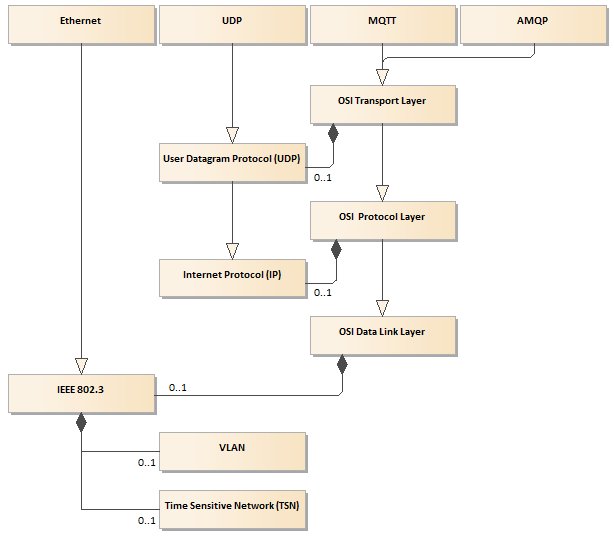
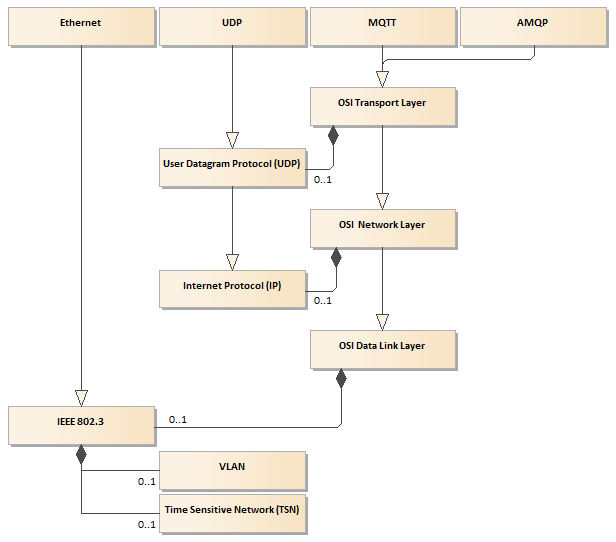
Review PubSub Main Technology Features #366
- applied review received from GM

Changed region(s): [[0.0, 0.0, 1.0, 0.9814]]

diff --git a/Networking/SemanticData/README.PubSubMTF.md b/Networking/SemanticData/README.PubSubMTF.md
@@ -7,9 +7,9 @@ In general speaking the following two distinct patterns are used to transfer dat
 - connection-oriented: requires a session that has to be established before any data can be sent between sender and receiver
 - connectionless-oriented: the sender may start sending messages (called packets or datagrams) to the destination without any preceding handshake procedure
 
-Each has its own advantages and disadvantages. In general, the OPC UA is a session centric communication. The session is established by the **OPC UA Clint** that must connect to the **OPC UA Server** before any data can be exchanged between them. In this Client/Server scenario defined by the [Services in Part 4][Opc.UA.Part4], the data flow is bidirectional over the session. The session entities communicate over a secure channel that is created in the underlying communication layer and relies upon it for secure communication. It enables to log-in using user authentication and authorization. More details you can find in the article:
+Each has its own advantages and disadvantages. In general, the OPC UA is a session centric communication. The session is established by the **OPC UA Clint** that must connect to the **OPC UA Server** before any data can be exchanged between them. In this Client/Server scenario defined by the [Services in Part 4][Opc.UA.Part4], the data flow is bidirectional over the session. The session entities communicate over a secure channel that is created in the underlying communication layer and relies upon it for secure communication. It enables to log-in using user authentication and operations authorization. More details you can find in the article:
 
-- [OPC Unified Architecture – Main Technological Features][wordpress.OPCUAMTF]
+- [OPC Unified Architecture – Main Technological Features][OPCUAMTF]
 
 Using the connection-oriented communication pattern it is difficult or even impossible to gather and process data from mobile things (e.g. smart devices, cigarettes box, drug blister, etc.), which is one of the **Internet of Things** paradigms. More details you can find in [IoT versus SCADA/DCS Data Acquisition Patterns][wordpress.IoTVersus].
 
@@ -18,23 +18,23 @@ Using the connection-oriented communication pattern it is difficult or even impo
 
 [OPC UA Part 14: PubSub][OPC.UA.PubSub] promotes interoperability of loosely coupled **PubSub Applications**. By design, they often will not even know each other. Their primary relationship is the shared understanding of:
 
-- specific semantics of exchanged data,
-- the syntax and semantics of messages that include these data, and
-- common underlying messages transport layer.
+- specific semantics (meaning) of exchanged data
+- the syntax and semantics of messages that include these data
+- common underlying messages transport layer
 
 The specification claims that the PubSub integrates into the existing OPC UA technology but as result of applying the connectionless communication it is easier to implement low power and low-latency communications on local networks. Additionally, the specification states that PubSub is based on the [OPC UA Information Model][CAS.OPCUAIMD] with the aim of seamless integration into **OPC UA Servers** and **OPC UA Clients**. Nevertheless, the PubSub communication does not require such a role dependency, i.e. there is no necessity for **Publisher** or **Subscriber** to be either an **OPC UA Server** or an **OPC UA Client** to participate in the communication.
 
-> **Note**: Unfortunately, [OPC UA Information Model][CAS.OPCUAIMD] is not used to promote **PubSub Applications** interoperability. This concept is only employed to define **Security Key Service** and **Configuration Service** models, which have an only indirect impact on the **PubSub Applications** interoperability.
+> **Note 1**: Unfortunately, [OPC UA Information Model][CAS.OPCUAIMD] is not used to promote **PubSub Applications** interoperability. This concept is only employed to define `Security Key Management` and `Configuration Management` models, which have an only indirect impact on the **PubSub Applications** interoperability.
 
 ## Services
 
-**PubSub Applications** exchange messages formatted as the `NetworkMessage` structure using underlying communication stack. As illustrated in the following domain model, directly or indirectly the specification defines the following actors:
+**PubSub Applications** exchange messages formatted as the `NetworkMessage` structure using underlying communication stack. As illustrated in the following domain model (Figure 1), directly or indirectly the specification defines the following actors:
 
 - `Publisher`: pushes the current process data formatted as the `NetworkMessage` structure to an underlying communication stack
-- `Subscriber`: consumes the process data, which is recovered from the `NetworkMessages` structure polled from the underlying communication stack
-- `Distribution Channel` - select common underlying communication stack
-- `NetworkMessage` - the network structure formatted in compliance with the syntax and semantics defined by the [OPC.UA.PubSub][OPC.UA.PubSub] specification
-- `Security Key Management` - a service that provides security keys used to sign and encrypt `NetworkMessage` structures
+- `Subscriber`: consumes the process data, which is recovered from the `NetworkMessage` structures polled from the underlying communication stack
+- `Distribution Channel` - selected common underlying communication stack
+- `NetworkMessage` - a data structure formatted in compliance with the syntax and semantics defined by the [OPC.UA.PubSub][OPC.UA.PubSub] specification
+- `Security Key Management` - a service that provides security keys used to sign and encrypt `NetworkMessage` data structures
 - `Configuration Management` - an external application used to remotely configure **PubSub Application**
 
 ![Figure 1. PubSub Application Domain Model](../../CommonResources/Media/PubSubMainComponents.png)
@@ -55,7 +55,7 @@ A `Security Key Management` provides keys for message security that can be used 
 
 ### Preface
 
-The **PubSub Applications** are decoupled by exchanging messages over a selected underlying protocol stack. It is worth stressing that by design the **PubSub Application** doesn't expose any API that can be used to transfer upper layer data over the network, i.e. it is not communication layer. It means that these applications must produce and/or consume the process data.
+The **PubSub Applications** are decoupled by exchanging messages over a selected underlying protocol stack. It is worth stressing that by design the **PubSub Application** doesn't expose any API that can be used to transfer upper layer data over the network, i.e. it is not a communication layer is the communication stack. It means that these applications must produce and/or consume the process data, i.e. the `NetworkMessage` must be populated using external process data.
 
 ### Transport Protocol Mappings
 
@@ -75,44 +75,54 @@ The [OPC.UA.PubSub][OPC.UA.PubSub] specification lists the following protocol st
 
 Because the specification doesn't define normative references for `OPC UA UDP` and `OPC UA Ethernet` in section *References* they are inferred from the context. Based on this mapping in the figure below the architecture of protocol stack is determined as the domain diagram. The diagram has been worked out on the best effort approach.
 
-![Transport protocol stack architecture](../../CommonResources/Media/Networking/StackDomainModel.png)
+> **Note 2** - for the sake of simplicity the diagram contains only protocols relevant for the mapping in concern. In other words, the classes representing the abstract OSI model layers (`OSI Transport`, `OSI Network`, and `OSI Data Link`) may aggregate and use a variety of protocols depending on the local network infrastructure, e.g. IEEE 802.11 for `OSI Data Link Layer`.
+
+![Figure 2. Transport protocol stack architecture](../../CommonResources/Media/Networking/StackDomainModel.png)
 
 Following the specification, the transport protocol mapping is modeled as the four top-level classes called appropriately `Ethernet`, `UDP`, `MQTT`, `AMQP`. They may be recognized as the underlying API of the protocol stack and are aggregated into one common communication layer used to exchange the messages over the network (section *[Semantic-Data Message Centric Communication][SDMCC]* ).
 
-Here it must be stressed that the mentioned in the section title term `transport protocol` has nothing in common with the Open System Interconnection Reference Model (OSI model) Transport Layer. Referring to the OSI model the `MQTT` and `AMQP` protocols should be recognized as the OSI Application Layer protocols. The OSI Application Layer is the one at the top of the model. Because the PubSub specification defines also the protocol on this layer some functionality is redundant in this case. For the purpose of traversing the network by the messages the **PubSub Application** uses both protocols as a transparent communication service. Applying the broker-based approach also means that some functionality related to communication reliability, data selection, and distribution is delegated to them. Details related to MQTT mapping are covered by the section *[Underlying Transport over MQTT][UTMQTT]*. Details related to AMQP mapping are covered by the section *[Underlying Transport over AMQP][UTAMQP]*.
+Here it must be stressed that the mentioned in the section title term `transport protocol` has nothing in common with the Open System Interconnection Reference Model (OSI model) Transport Layer. Referring to the OSI model the `MQTT` and `AMQP` protocols should be recognized as the `OSI Application Layer` protocols. The `OSI Application Layer` is the one at the top of the model. For the sake of simplicity, the `OSI Application Layer` is not present in the diagram. Because the PubSub specification defines also the protocol on the same layer some functionality is redundant in this case - they overlap on each other. For the purpose of traversing the network by the messages, the **PubSub Application** uses `MQTT` and `AMQP` protocols as a transparent communication service. Applying the broker-based approach also means that some functionality related to communication reliability, data selection, and distribution is delegated to them. Details related to MQTT mapping are covered by the section *[Underlying Transport over MQTT][UTMQTT]*. Details related to AMQP mapping are covered by the section *[Underlying Transport over AMQP][UTAMQP]*.
 
-The OSI Presentation Layer represents the services that are responsible for the translation of the application data encoding to network encoding, and translation back from the network encoding to application encoding. In other words, the layer “presents” data for the application or the network. This functionality is embedded in the definition of the PubSub message syntax rules. This syntax rules ([OPC UA Part 6][OPC.UA.Part6]) are common for all the OPC UA specifications suit. For the sake of simplicity, the `OSI Presentation Layer` is not present in the diagram.
+The `OSI Presentation Layer` represents the services that are responsible for the translation of the application data encoding to network encoding, and translation back from the network encoding to application encoding. In other words, the layer “presents” data for the application or the network. This functionality (encoding/decoding) is embedded in the definition of the PubSub message syntax rules. This syntax rules ([OPC UA Part 6][OPC.UA.Part6]) are common for all the OPC UA specifications suit. For the sake of simplicity, the `OSI Presentation Layer` is not present in the diagram.
 
-In the published/subscriber communication pattern the OSI Session Layer is empty, so it is ignored in the domain model presented in figure above.
+In the published/subscriber communication pattern the `OSI Session Layer` is empty, so it is ignored in the domain model presented in figure above.
 
 The specification doesn't define particular mapping rules referring to protocol stack used by the `AMQP` and `MQTT`, so an abstract `OSI Transport Layer` is used in the proposed model as the underlying communication layer for them. In this case, all requirements against relevant specifications apply.
 
-On the other hand, according to the mapping rules the `User Datagram Protocol (UDP)` protocol is pointed out by the PubSub specification as the only concrete implementation of the `OSI Transport Layer`. In this case, the protocol can be recognized as the base for the `UDP` mapping rules stated by the specification and a not sharable part of the abstract `OSI Transport Layer`.
+On the other hand, according to the mapping rules the `User Datagram Protocol (UDP)` protocol ([UDP][RFC.UDP]) is pointed out by the PubSub specification as the only concrete implementation of the `OSI Transport Layer`. In this case, the protocol can be recognized as the base for the `UDP` mapping rules stated by the specification and a not sharable part of the abstract `OSI Transport Layer`.
 
-The specification doesn't define any subscription management services, namely, it offers a communication paradigm called unsolicited notification. When unsolicited notification occurs, a client receives a message that it has never requested. Using broker-less approach the **Subscriber** must use a filtering mechanism to process only messages it is interested in.
+The specification doesn't define any **subscription management services**, namely, it offers a communication paradigm called unsolicited notification. When unsolicited notification occurs, a client receives a message that it has never requested. Using broker-less approach the **Subscriber** must use a filtering mechanism to process only messages it is interested in.
 
-In case the broker-less approach over the UDP is selected for communication some multicast functionality must be offered by the protocol stack. UDP is one-to-one connectionless protocol and cannot be used for this purpose. The specification recommends using `Internet Protocol (IP)` multicast option to fulfill this requirement. Formally there are no additional mapping rules defined for this protocol, but as a result, this concrete protocol has been selected as the base for `UDP` protocol and is an embedded part of the OSI Protocol Layer.
+In case the broker-less approach over the UDP is selected for communication some multicast functionality must be offered by the protocol stack. UDP is one-to-one connectionless protocol and cannot be used for this purpose. The specification recommends using `Internet Protocol (IP)` multicast option to fulfill this requirement. Formally there are no additional mapping rules defined for this protocol, but as a result, this concrete protocol has been selected as the base for `User Datagram Protocol (UDP)` protocol and is an embedded part of the `OSI Network Layer`.
 
-This approach has some drawbacks. Using IP multicast special equipment and dedicated configuration of that equipment are required.  Both make this solution applicable only for the local network segments in the administration realm of the protocol users. It is hard to imagine the usage of this communication option even in case of enterprise scoped networks. Detailed description of the `UDP` mapping rules are covered by the section *[Underlying Transport over UDP][UTUDP]*.
+This approach has some drawbacks. Using IP multicast for `UDP` mapping, special equipment and dedicated configuration of that equipment are required. Both make this solution applicable only for the local network segments in the administration realm of the protocol users. It is hard to imagine the usage of this communication option even in case of enterprise scoped networks. From the practice, we know that particularly with factory networks, the manufacturing/engineering and IT organizations of the same company don't agree upon the management boundaries in a single plant. On the other hand, a broker-less PubSub `UDP` mapping using unicast addressing is a highly specialized case where the `Publisher` is intimately coupled to the `Subscriber`.
 
-I guess that the removal of the UDP and IP protocols from the communication stack is recognized by the specification authors as a mean to improve the performance of the communication. As a result `Ethernet` mapping rules have been defined (see figure above). The ETHERNET term is recognized as a keyword with a very broad meaning ([IEEE 802.3 ETHERNET WORKING GROUP][IEEE]). The specification doesn't define normative reference in this respect. In the figure above it is presented as a concrete implementation compliant with the IEEE 802.3 standard suit. In cas the UDP protocol is removed form the stack to replace the application selection functionality offered by the socket concept the registered B62C EtherType is recommended. Detailed description of the `Ethernet` mapping rules are covered by the section *[Underlying Transport over Ethernet][UTEthernet]*
+Every specification should promote interoperability. Unfortunately, [Part 14 PubSub][OPC.UA.PubSub] doesn't specify how a multicast address is acquired by a publisher and subscribers - but this is absolutely crucial to obtain interoperability. The core concept of the publisher/subscriber communication pattern is topic-based messages distribution. It seems difficult or even impossible to create any directory services based on the IP addressing mechanism because it addresses issues related to nodes identification and localization on the global network, but not data semantics (data meaning).
 
+Detailed description of the `UDP` mapping rules are covered by the section *[Underlying Transport over UDP][UTUDP]*.
+
+I guess that the removal of the UDP and IP protocols from the communication stack is recognized by the specification authors as a mean to **improve the performance of the communication**. As a result `Ethernet` mapping rules have been defined (see figure above). The ETHERNET term is recognized as a keyword with a very broad meaning ([IEEE 802.3 ETHERNET WORKING GROUP][IEEE]). The specification doesn't define normative reference in this respect. In the figure above it is presented as a concrete implementation compliant with the `IEEE 802.3` standard suit. In case the UDP protocol is removed form the stack to replace the application selection functionality offered by the socket concept the registered **B62C EtherType** is recommended. Removing IP from the communication stack means that the addressing possibility is limited to local network segment. Detailed description of the `Ethernet` mapping rules are covered by the section *[Underlying Transport over Ethernet][UTEthernet]*.
+
+> **NOTE 3**: The specification doesn't delegate any publish/subscribe functionality down to this protocol. In this case, even the document title PubSub is confusing.
+>
+> **NOTE 4**: Ethernet mapping is applicable only in case the communication parties are connected to the same local network segment (they are in the same broadcast domain limited by a VLAN if any).
+  
 Further communication performance improvement and extension of the functionality may be obtained for example by applying implementation of the:
 
 - Time-Sensitive Network (TSN)
 - Virtual Local Network (VLAN)
 - Quality of Service (QoS)
 
-They are only partially mentioned in the specification but should be recognized and modeled as the embedded part of the 802.3 implementations. In any case, these solutions are invisible for the implementation of the communication layers above 802.3, so they are invisible for upper layers and doesn't have any impact on the PubSub interoperability, therefore should be considered as statements outside the scope of the specification. It is also worth stressing that these solutions can be applied in spite of the above communication stack selection - it is the common point in the transport protocol stack. In other words, the mentioned solutions are not dedicated to OPC UA at all and can be applied for any communication protocol.
+They are only partially mentioned in the specification but the solution like these should be recognized and modeled as an embedded part of the `IEEE 802.3` implementations. In any case, these solutions are invisible for the implementation of the communication layers above `IEEE 802.3`, so they are invisible for upper layers and doesn't have any impact on the PubSub interoperability, therefore should be considered as statements outside the scope of the specification. It is also worth stressing that these solutions can be applied in spite of the above communication stack selection - it is the common point in the transport protocol stack. In other words, the mentioned solutions are not dedicated to OPC UA at all and can be applied for any communication protocol.
 
-### Message Mapping
+### Message Mappings
 
-The syntax and semantics of the messages exchanged between the **PubSub Application** network nodes are described as the `NetworkMessage` structure. Each `NetworkMessage` includes header information (e.g. identification and security data) and one or more `DataSetMessage` structures. The `DataSetMessage` may be signed and encrypted in accordance with the configured message security. Each `DataSetMessage` contains process data.
+The syntax and semantics of the messages exchanged between the **PubSub Application** network nodes are described as the `NetworkMessage` data structure. Each `NetworkMessage` includes header information (e.g. identification and security data) and one or more `DataSetMessage` structures. The `DataSetMessage` may be signed and encrypted in accordance with the configured message security. Each `DataSetMessage` contains process data.
 
 The `NetworkMessage` structure can be serialized using the following encoding:
 
 - UADP: optimized binary encoding
-- JSON: text format as defined in [RFC JSON][RFC.JSON].
+- JSON: text format as defined in [RFC JSON][RFC.JSON]
 
 ## Normative References
 
@@ -128,25 +138,23 @@ The preliminary code help documentation is here: [API Browser](http://www.commsv
 
 The topics contained in the document [Getting Started Tutorial](../../Networking/SemanticData/READMEGettingStartedTutorial.md) are intended to give you quick exposure to the `OOI Reactive Application` network-based data exchange programming experience. Working through this tutorial gives you an introductory understanding of the steps required to customize existing `OOI Reactive Application`.
 
-This project is aimed at implementation of an example of the `OOI Reactive Application` supporting producer and consumer roles simultaneously. The purpose of the `ReferenceApplication` is to demonstrate the concepts and architecture of the reactive networking application implementation, rather than to necessarily provide a realistic scenario for its use. For more extensive examples, see the [Semantic-Data Processing Architecture](../../SemanticData/README.MD).
-
-The section [Walk-through `ReferenceApplication`][Walk-through `ReferenceApplication`] covers description of a project aimed at implementation of an example of the `OOI Reactive Application` supporting producer and consumer roles simultaneously. The purpose of the `ReferenceApplication` is to demonstrate the concepts and architecture of the reactive networking application implementation, rather than to necessarily provide a realistic scenario for its use.
+The section [Walk-through `ReferenceApplication`][ReferenceApplication] covers the description of a project aimed at implementation of an example of the `OOI Reactive Application` supporting producer and consumer roles simultaneously implemented as independent concurrent threads. The purpose of the `ReferenceApplication` is to demonstrate the concepts and architecture of the reactive networking application implementation, rather than to necessarily provide a realistic scenario for its use. For more extensive examples, see the [Semantic-Data Processing Architecture](../../SemanticData/README.MD).
 
 ## Acknowledgment
 
-I would like to thank ..... for their feedback, cooperation and of course friendship.
+I would like to thank [Gary Workman](https://www.linkedin.com/in/gary-workman-486663161/) and [Michał Morawski](https://www.linkedin.com/in/micha%C5%82-morawski-969a259a/) for their feedback, cooperation and of course friendship.
 
 ## Glossary
 
-- Publisher-subscriber communication pattern
+### Publisher-subscriber communication pattern
 
 > Publish-subscribe is a messages distribution scenario where senders of messages, called publishers, do not send them directly to specific receivers, called subscribers, but instead categorize published messages into classes without knowledge of which subscribers if any, there may be. Similarly, subscribers express interest in one or more classes and only receive messages that are of interest, without knowledge of which publishers, if any, there are. In the publish-subscribe model, subscribers typically receive only a subset of the total messages published. The process of selecting messages for reception and processing is called filtering. There are two common forms of filtering: topic-based and content-based.
 
-- Connection-oriented communication pattern
+### Connection-oriented communication pattern
 
 > Data exchange scenario that requires a session connection be established before any data can be sent. Connection-oriented services set up virtual links between applications through a network. The session is responsible to retain a state information or status about each communicating partner for the duration of multiple requests. An OPC UA Client/Server connection is a stateful connection because both systems maintain information about the session itself during its life.
 
-- Connectionless-oriented communication pattern
+### Connectionless-oriented communication pattern
 
 > Messages exchange scenario that does not require a session connection between sender and receiver. The sender simply starts sending packets (called datagrams) to the destination. Neither system must maintain state information for the systems that they send messages to or receive messages from.
 
@@ -180,9 +188,9 @@ I would like to thank ..... for their feedback, cooperation and of course friend
 
 [wordpress.IoTVersus]: https://mpostol.wordpress.com/2017/09/19/iot-versus-scadadcs/
 
-- [OPC Unified Architecture – Main Technological Features][wordpress.OPCUAMTF]
+- [OPC UA Main Technology Features][OPCUAMTF]
 
-[wordpress.OPCUAMTF]: https://mpostol.wordpress.com/2013/08/04/opc-unified-architecture-main-technological-features/
+[OPCUAMTF]:../../OPCUAMainTechnologyFeatures.md
 
 - [OPC UA Information Model Deployment][CAS.OPCUAIMD]
 
@@ -220,9 +228,9 @@ I would like to thank ..... for their feedback, cooperation and of course friend
 
 [AMQP]:http://docs.oasis-open.org/amqp/core/v1.0/os/amqp-core-overview-v1.0-os.html
 
-- [Walk-through `ReferenceApplication`][Walk-through `ReferenceApplication`]
+- [Walk-through `ReferenceApplication`][ReferenceApplication]
 
-[Walk-through `ReferenceApplication`]:../../Networking/ReferenceApplication/README.MD
+[ReferenceApplication]:../../Networking/ReferenceApplication/README.MD
 
 - [IEEE 802.3 ETHERNET WORKING GROUP][IEEE]
 

diff --git a/Networking/SemanticData/README_EthernetMapping.md b/Networking/SemanticData/README_EthernetMapping.md
@@ -84,7 +84,7 @@ The messages (`UADP NetworkMessage`) are transparently transported as the payloa
 ## Conclusion
 
 - OPC UA and Ethernet are unrelated, i.e. there is no semantic relationship between both
-- OPC UA is recognized as the Internet technology, but this mapping makes sense only for broadcast domain (local network segment)
+- OPC UA Pub/Sun is recognized as an Internet technology, but an Ethernet mapping only makes sense for a VLAN constrained broadcast domain (local network segment)
 - OPC UA PubSub over the TSN is misleading term because each protocol can be transported over this particular Ethernet dialect
 - Time Sensitive Network doesn’t mean real time – it means no jitter (improves deterministic communication)
 
